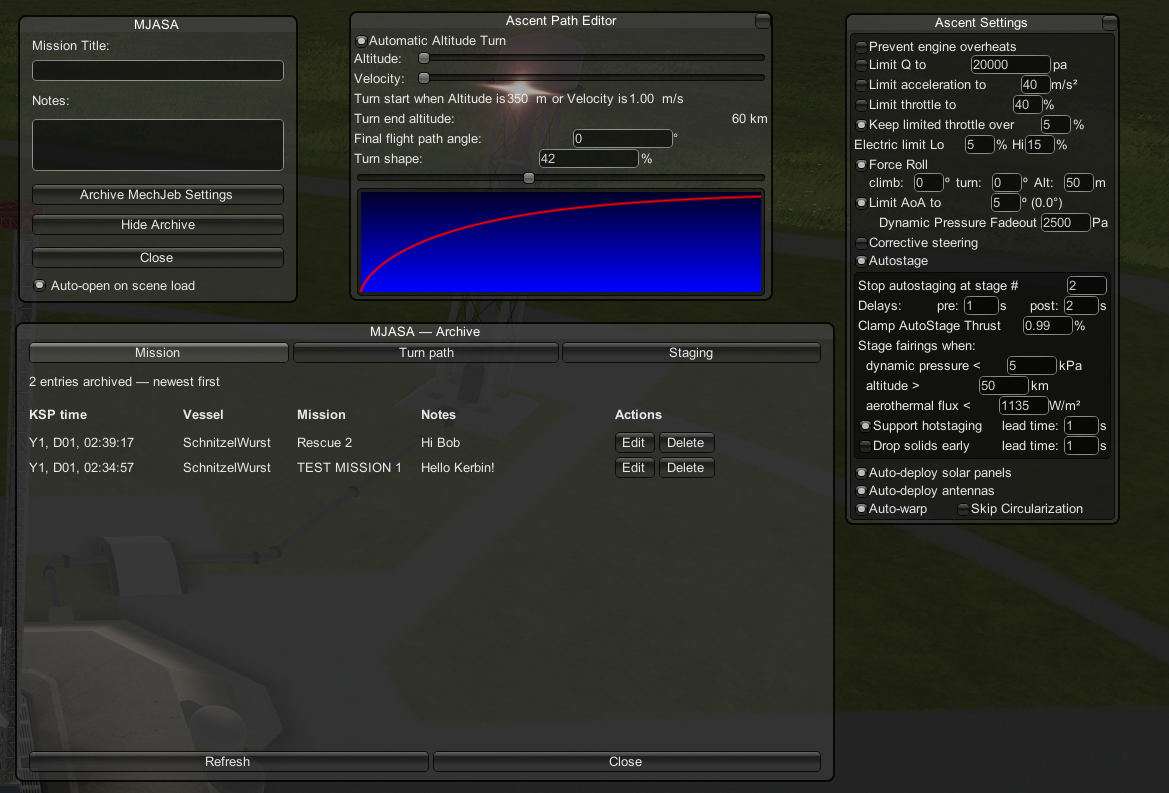
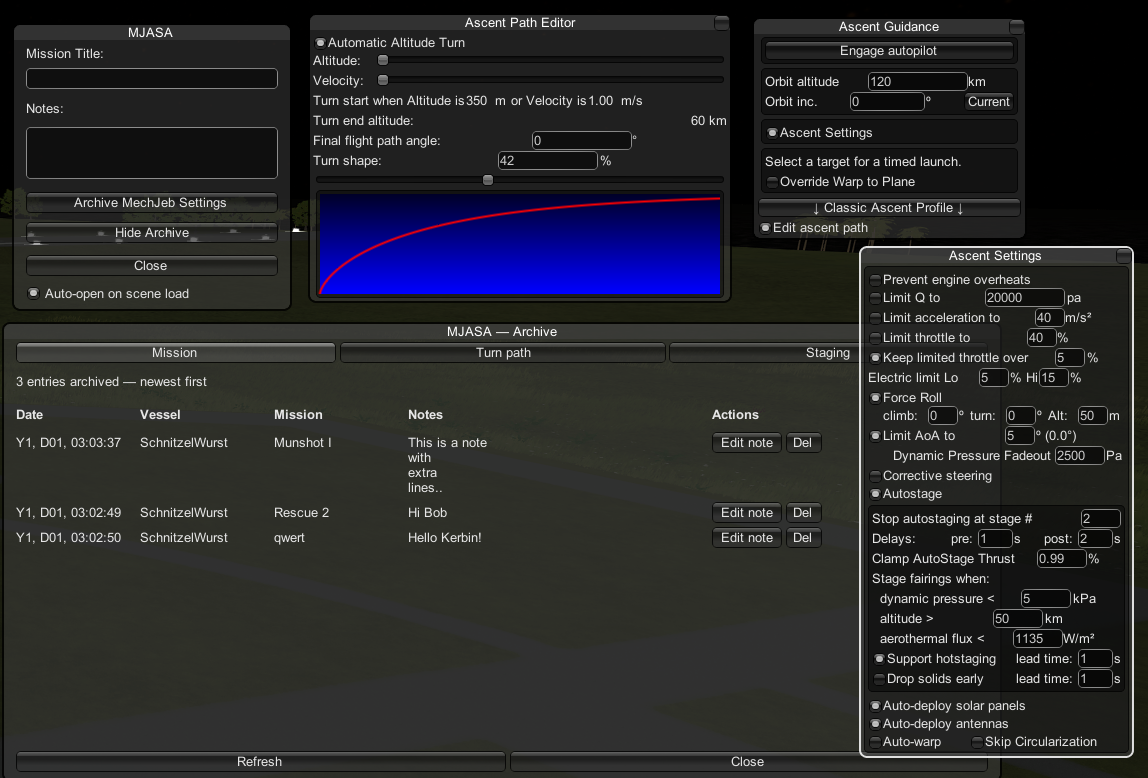
update ui

diff --git a/Source/MJASA.cs b/Source/MJASA.cs
@@ -31,7 +31,7 @@ public class MJASA : MonoBehaviour
     private bool showHistory = false;
 
     private Rect loggerRect  = new Rect(200, 200, 280, 180);
-    private Rect historyRect = new Rect(80, 80, 820, 460);
+    private Rect historyRect = new Rect(80, 80, 1000, 460);
 
     private string  missionTitle = "";
     private string  notes        = "";
@@ -84,11 +84,11 @@ public class MJASA : MonoBehaviour
 
     private static readonly string[] MISSION_LABELS  = { "Date", "Vessel", "Mission", "Notes" };
     private static readonly string[] TURNPATH_LABELS = { "Date", "Vessel", "Mission", "Orbit alt", "Start alt", "Start vel", "End alt", "End angle", "Shape %" };
-    private static readonly string[] STAGING_LABELS  = { "Date", "Vessel", "Mission", "Autostage limit", "Pre delay", "Post delay", "Hotstaging", "Lead time" };
+    private static readonly string[] STAGING_LABELS  = { "Date", "Vessel", "Mission", "Stage stop", "Pre delay", "Post delay", "Hotstaging", "Lead time" };
 
-    private static readonly int[] MISSION_WIDTHS  = { 150, 110, 120, 190 };
-    private static readonly int[] TURNPATH_WIDTHS = { 150, 100, 100,  75,  65,  65,  65,  70,  65 };
-    private static readonly int[] STAGING_WIDTHS  = { 150, 110, 100,  70,  70,  70,  75,  70 };
+    private static readonly int[] MISSION_WIDTHS  = { 120, 130, 130, 300 };
+    private static readonly int[] TURNPATH_WIDTHS = { 120, 130, 130,  90,  90,  90,  90,  90,  90 };
+    private static readonly int[] STAGING_WIDTHS  = { 120, 130, 130,  90,  90,  90,  90,  90 };
 
     // -------------------------------------------------------------------------
     // Lifecycle
@@ -272,7 +272,7 @@ public class MJASA : MonoBehaviour
             for (int c = 0; c < labels.Length; c++)
                 GUILayout.Label($"<b>{labels[c]}</b>", GUILayout.Width(widths[c]));
             if (isMission)
-                GUILayout.Label("<b>Actions</b>", GUILayout.Width(112));
+                GUILayout.Label("<b>Actions</b>", GUILayout.Width(160));
             GUILayout.EndHorizontal();
 
             GUILayout.Space(3);
@@ -315,21 +315,21 @@ public class MJASA : MonoBehaviour
                     if (isEditing)
                     {
                         // Save / Cancel while editing
-                        if (GUILayout.Button("Save", GUILayout.Width(46)))
+                        if (GUILayout.Button("Save", GUILayout.Width(70)))
                             CommitEdit(r, row);
-                        if (GUILayout.Button("X", GUILayout.Width(24)))
+                        if (GUILayout.Button("X", GUILayout.Width(36)))
                             CancelEdit();
                     }
                     else if (isPendingDelete)
                     {
-                        if (GUILayout.Button("Del", GUILayout.Width(36))) deleteTarget = r;
-                        if (GUILayout.Button("No",  GUILayout.Width(36))) pendingDeleteIndex = -1;
+                        if (GUILayout.Button("Delete", GUILayout.Width(70))) deleteTarget = r;
+                        if (GUILayout.Button("X",  GUILayout.Width(36))) pendingDeleteIndex = -1;
                     }
                     else
                     {
-                        if (GUILayout.Button("Edit", GUILayout.Width(40)))
+                        if (GUILayout.Button("Edit note", GUILayout.Width(70)))
                             OpenEdit(r, row);
-                        if (GUILayout.Button("Delete", GUILayout.Width(56)))
+                        if (GUILayout.Button("Del", GUILayout.Width(36)))
                         {
                             pendingDeleteIndex = r;
                             CancelEdit();
